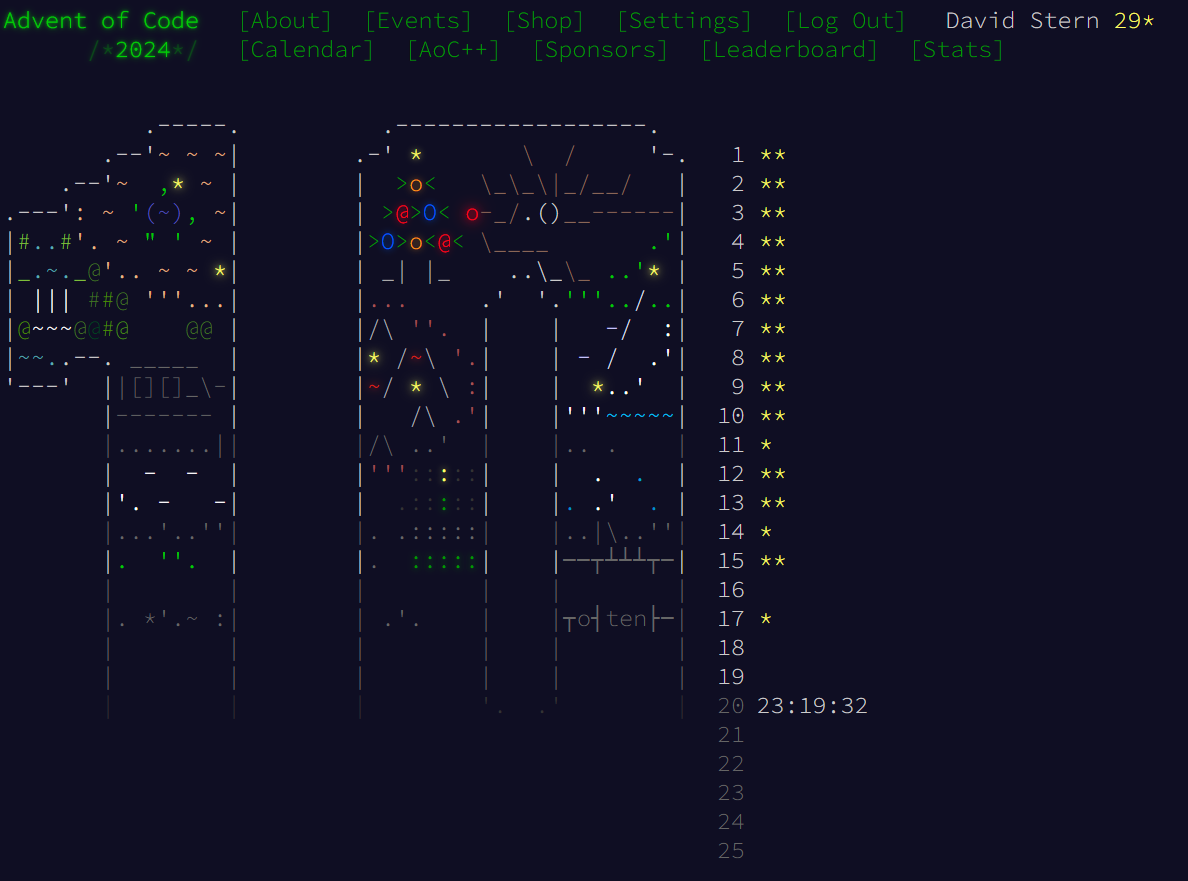
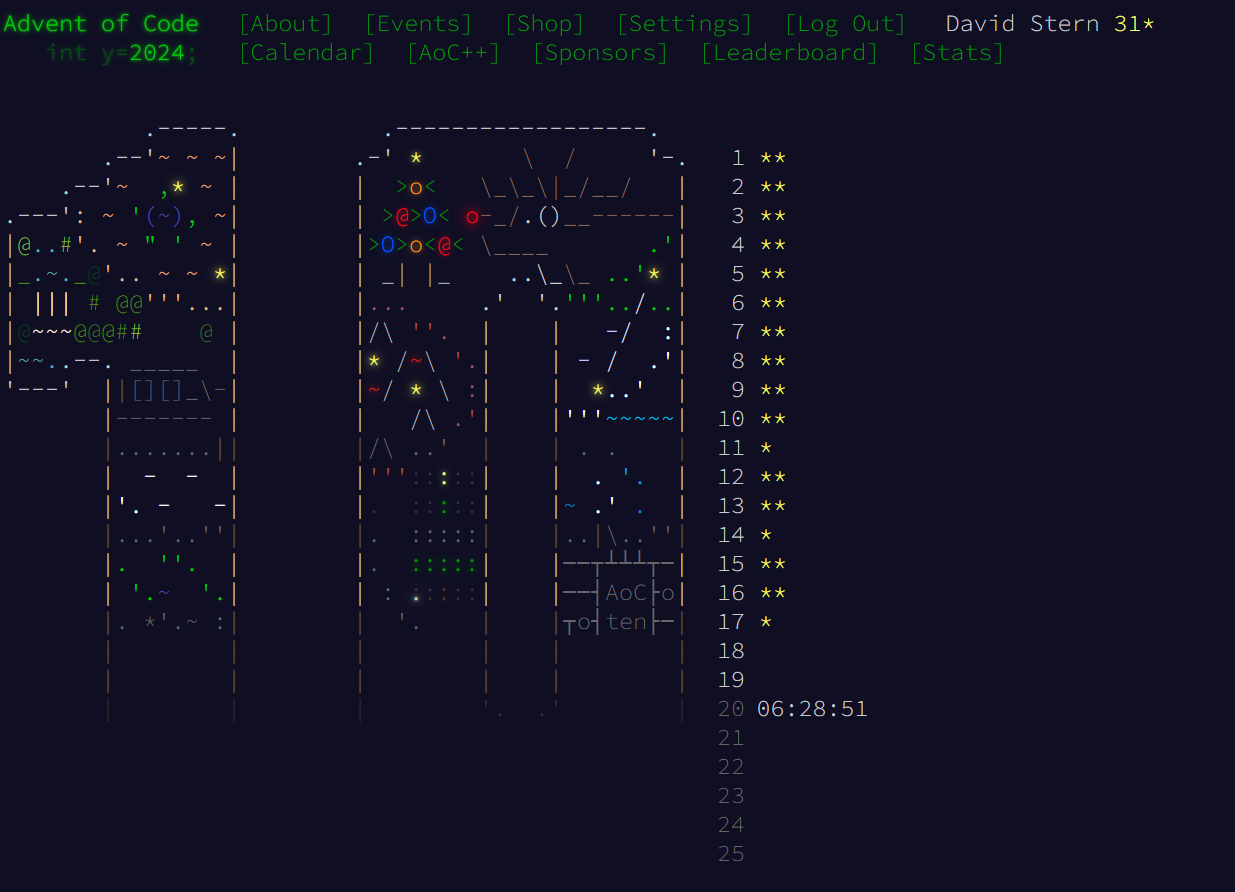
day16 refactoring and added comments

diff --git a/src/advent_solutions/day16.rs b/src/advent_solutions/day16.rs
@@ -1,4 +1,4 @@
-use std::collections::{HashMap, HashSet, VecDeque};
+use std::{cmp::Ordering, collections::{HashMap, HashSet, VecDeque}};
 
 use super::{read_input_file, SolveAdvent};
 
@@ -34,6 +34,7 @@ impl Direction {
     }
 
     fn move_one(& self, current_positon: OrderedPair) -> OrderedPair {
+        //! Move 1-step in the direction specified
         let (row, col) = current_positon;
         match self {
             Direction::Down => (row + 1, col),
@@ -44,23 +45,31 @@ impl Direction {
     }
 }
 
+///An object exploring the maze
 #[derive(Debug, Clone)]
 struct MazeRunner<'a> {
+    ///Current maze position
     position: OrderedPair,
+    ///Current traversal direction
     direction: Direction,
+    ///This probe's traversal history
     visited: HashSet<(OrderedPair, Direction)>, 
+    ///The maze being traversed
     maze: &'a Vec<Vec<char>>,
+    ///Running score along the path. Each turn costs 1000 points,
+    /// each step straight costs 1 point
     running_score: usize
 }
 
-impl <'a > std::fmt::Display for MazeRunner<'a> {
+impl std::fmt::Display for MazeRunner<'_> {
     fn fmt(&self, f: &mut std::fmt::Formatter<'_>) -> std::fmt::Result {
         write!(f, "MazeRunner(position={:?}, direction={:?}, running_score: {})", self.position, self.direction, self.running_score)
     }
 }
 
 impl <'a>MazeRunner <'a> {
-    fn find_start_position(maze: &Vec<Vec<char>>) -> anyhow::Result<OrderedPair> {
+    fn find_start_position(maze: &[Vec<char>]) -> anyhow::Result<OrderedPair> {
+        //! Find the start position (the first maze runner)
         for (row_number, row) in maze.iter().enumerate() {
             for (col_number, symbol) in row.iter().enumerate() {
                 if *symbol == 'S' {
@@ -87,25 +96,29 @@ impl <'a>MazeRunner <'a> {
     }
 
     fn spawn_next(&self) -> [Self; 3] {
+        //! Spawn the next 3 possible probes from the current maze runner
         [
+            //Option 1: Move 1 step in the same direction, score increments by 1
             MazeRunner {
                 position: self.direction.move_one(self.position),
                 direction: self.direction,
-                maze: &self.maze,
+                maze: self.maze,
                 visited: self.visited.clone(), 
                 running_score: self.running_score + 1
             }, 
+            //Option 2: Rotate Clockwise, which costs 1_000 points
             MazeRunner {
                 position: self.position,
                 direction: self.direction.rotate_clockwise(),
-                maze: &self.maze,
+                maze: self.maze,
                 visited: self.visited.clone(),
                 running_score: self.running_score + 1_000
             }, 
+            //Option 3: Rotate Counterclockwise, which costs 1_000 points
             MazeRunner {
                 position: self.position,
                 direction: self.direction.rotate_counterclockwise(),
-                maze: &self.maze,
+                maze: self.maze,
                 visited: self.visited.clone(),
                 running_score: self.running_score + 1_000
             }, 
@@ -114,9 +127,11 @@ impl <'a>MazeRunner <'a> {
 
 
     fn visit(&mut self) {
+        //! Add current position to visit history
         self.visited.insert((self.position, self.direction));
     }
     fn destination_reached(&self) -> bool {
+        //! Has the `E` space been reached?
         if !self.is_valid_space() {
             return false;
         }
@@ -127,6 +142,7 @@ impl <'a>MazeRunner <'a> {
         false
     }
     fn is_valid_space(&self) -> bool {
+        //! Is the `current_position` a valid space (inbounds and not a wall (`#`))
         let (row, col)  = self.position;
         if row < 0 || col < 0 || row >= self.maze.len() as i64 || col >= self.maze[0].len() as i64 {
             return false;
@@ -138,14 +154,58 @@ impl <'a>MazeRunner <'a> {
     }
 }
 
+///Abstraction of an object that kills probes early as soon as it can 
+/// be determined that the probe in question is not optimal
+struct Optimizer {
+    best_score_tracker: HashMap<(OrderedPair, Direction), usize>,
+}
+
+impl Optimizer {
+    fn new() -> Self {
+        Optimizer {
+            best_score_tracker: HashMap::new()
+        }
+    }
+
+    fn kill_probe(&mut self, current_maze_runner: &MazeRunner) -> bool {
+        //! Kill the probe if the `current_maze_runner` cannot possibly be on an optimal path.
+        //! 
+        //! Currently, a single score is kept for each position/direction pairing. Any probe that has reached
+        //! the position with a worst score cannot possibly be on an optimal path, because from this point on the two probes
+        //! will have identical futures. This solution is sub-optimal, because it is ordering sensitive. If two probes collide at a 
+        //! position, one with score `15`, the other with score `20`, the order matters. If the `15` calls `kill_probe` first, then the `20`
+        //! probe will be killed when it calls `kill_probe`. However, if `15` comes second, then the `20` is not killed even though we know it to be
+        //! on a suboptimal path. A better optimizer is possible to build, and maybe a future improvement on this day's solution would try to build one.
+        if let Some(previous_best_score) =self.best_score_tracker.get_mut(&(current_maze_runner.position, current_maze_runner.direction)) {
+            if current_maze_runner.running_score > *previous_best_score {
+                //A previous probe got here first and had a better score, so the current probe should be killed
+                return true;
+            } else {
+                //Update to the new score
+                *previous_best_score = current_maze_runner.running_score;
+            }
+
+        } else {
+            self.best_score_tracker.insert((current_maze_runner.position, current_maze_runner.direction), current_maze_runner.running_score); 
+        }
+        false
+    }
+}
+
 impl SolveAdvent for Day16 {
     fn solve_part1(path_to_file: &str) -> anyhow::Result<()> {
+        //! Breadth first search of the maze traveling all possible paths from S to E.
+        //! The lowest scored path is tracked. A black-box `optimizer` tries to kill probes
+        //! as soon as possible to clamp down the programs runtime.
+        //! 
+        //! The current optimizer can be improved. Current program runtime is round 50 seconds, which 
+        //! is obviously not desirable, and can be improved with a better optimizer
         let file_contents =read_input_file(path_to_file)?;
         let maze = file_contents.lines().map(|line| line.chars().collect::<Vec<_>>()).collect::<Vec<_>>();
         let mut traversal_queue = VecDeque::new();
         traversal_queue.push_back(MazeRunner::try_new(&maze)?);
         let mut lowest_score = usize::MAX;
-        let mut optimizer = HashMap::new();
+        let mut optimizer = Optimizer::new();
         while let Some(mut current_maze_runner) = traversal_queue.pop_front() {
             if !current_maze_runner.is_valid_space() || current_maze_runner.in_cycle() {
                 continue;
@@ -154,15 +214,8 @@ impl SolveAdvent for Day16 {
                 lowest_score = lowest_score.min(current_maze_runner.running_score);
                 continue;
             }
-            if let Some(best_score) = optimizer.get_mut(&(current_maze_runner.position, current_maze_runner.direction)) {
-                if current_maze_runner.running_score > *best_score {
-                    continue;
-                } else {
-                    *best_score = current_maze_runner.running_score;
-                }
-
-            } else {
-                optimizer.insert((current_maze_runner.position, current_maze_runner.direction), current_maze_runner.running_score); 
+            if optimizer.kill_probe(&current_maze_runner) {
+                continue;
             }
             current_maze_runner.visit();
             traversal_queue.extend(current_maze_runner.spawn_next());
@@ -172,41 +225,42 @@ impl SolveAdvent for Day16 {
     }
 
     fn solve_part2(path_to_file: &str) -> anyhow::Result<()> {
+        //! Essentially the exact same algorithm as the solution to part1, but
+        //! each unique positions that are on one of the optimial paths is tracked.
+        //! Runtime is around 50 seconds, which can of course be improved.
         let file_contents =read_input_file(path_to_file)?;
         let maze = file_contents.lines().map(|line| line.chars().collect::<Vec<_>>()).collect::<Vec<_>>();
         let mut traversal_queue = VecDeque::new();
         traversal_queue.push_back(MazeRunner::try_new(&maze)?);
         let mut lowest_seen_score = usize::MAX;
-        let mut optimal_path_position: HashSet<OrderedPair> = HashSet::new();
-        let mut optimizer = HashMap::new();
+        //Set to keep track of all unique positions that are part of an optimal path through the maze
+        let mut positions_on_optimal_path: HashSet<OrderedPair> = HashSet::new();
+        let mut optimizer = Optimizer::new();
         while let Some(mut current_maze_runner) = traversal_queue.pop_front() {
             if !current_maze_runner.is_valid_space() || current_maze_runner.in_cycle() {
                 continue;
             }
             current_maze_runner.visit();
             if current_maze_runner.destination_reached() {
-                if current_maze_runner.running_score < lowest_seen_score {
-                    lowest_seen_score = current_maze_runner.running_score;
-                    optimal_path_position.clear();
-                    optimal_path_position.extend(current_maze_runner.visited.iter().map(|(position, _direction)| position));
-                } else if current_maze_runner.running_score == lowest_seen_score {
-                    optimal_path_position.extend(current_maze_runner.visited.iter().map(|(position, _direction)| position));
+                match current_maze_runner.running_score.cmp(&lowest_seen_score) {
+                    Ordering::Less => {
+                        lowest_seen_score = current_maze_runner.running_score;
+                    positions_on_optimal_path.clear();
+                    positions_on_optimal_path.extend(current_maze_runner.visited.iter().map(|(position, _direction)| position));
+                    },
+                    Ordering::Equal => {
+                        positions_on_optimal_path.extend(current_maze_runner.visited.iter().map(|(position, _direction)| position));
+                    },
+                    Ordering::Greater => {}
                 }
                 continue;
             }
-            if let Some(best_score) = optimizer.get_mut(&(current_maze_runner.position, current_maze_runner.direction)) {
-                if current_maze_runner.running_score > *best_score {
-                    continue;
-                } else {
-                    *best_score = current_maze_runner.running_score;
-                }
-
-            } else {
-                optimizer.insert((current_maze_runner.position, current_maze_runner.direction), current_maze_runner.running_score); 
+            if optimizer.kill_probe(&current_maze_runner) {
+                continue;
             }
             traversal_queue.extend(current_maze_runner.spawn_next());
         }
-        println!("Unique positions on an optimal path through the maze: {}", optimal_path_position.len());
+        println!("Unique positions on an optimal path through the maze: {}", positions_on_optimal_path.len());
         Ok(())
     }
 }

diff --git a/README.md b/README.md
@@ -1,5 +1,5 @@
 ## Progress Summary
-Just like last year, I am working through the 2024 [Advent of Code](https://adventofcode.com/2024) problems. I currently have `29` stars. Each day's solutions are found in the `/advent_solutions` folder under the day in question. As requested by the creator of the problems, I do not provide the input text, only the code solutions. To run a certain solution, ensure that the correct input text is placed in an `input.txt` file. Just like last year, solutions implement the following trait: 
+Just like last year, I am working through the 2024 [Advent of Code](https://adventofcode.com/2024) problems. I currently have `31` stars. Each day's solutions are found in the `/advent_solutions` folder under the day in question. As requested by the creator of the problems, I do not provide the input text, only the code solutions. To run a certain solution, ensure that the correct input text is placed in an `input.txt` file. Just like last year, solutions implement the following trait: 
 ```rust
 pub trait SolveAdvent {
     ///How to solve part1 of the days puzzle.
